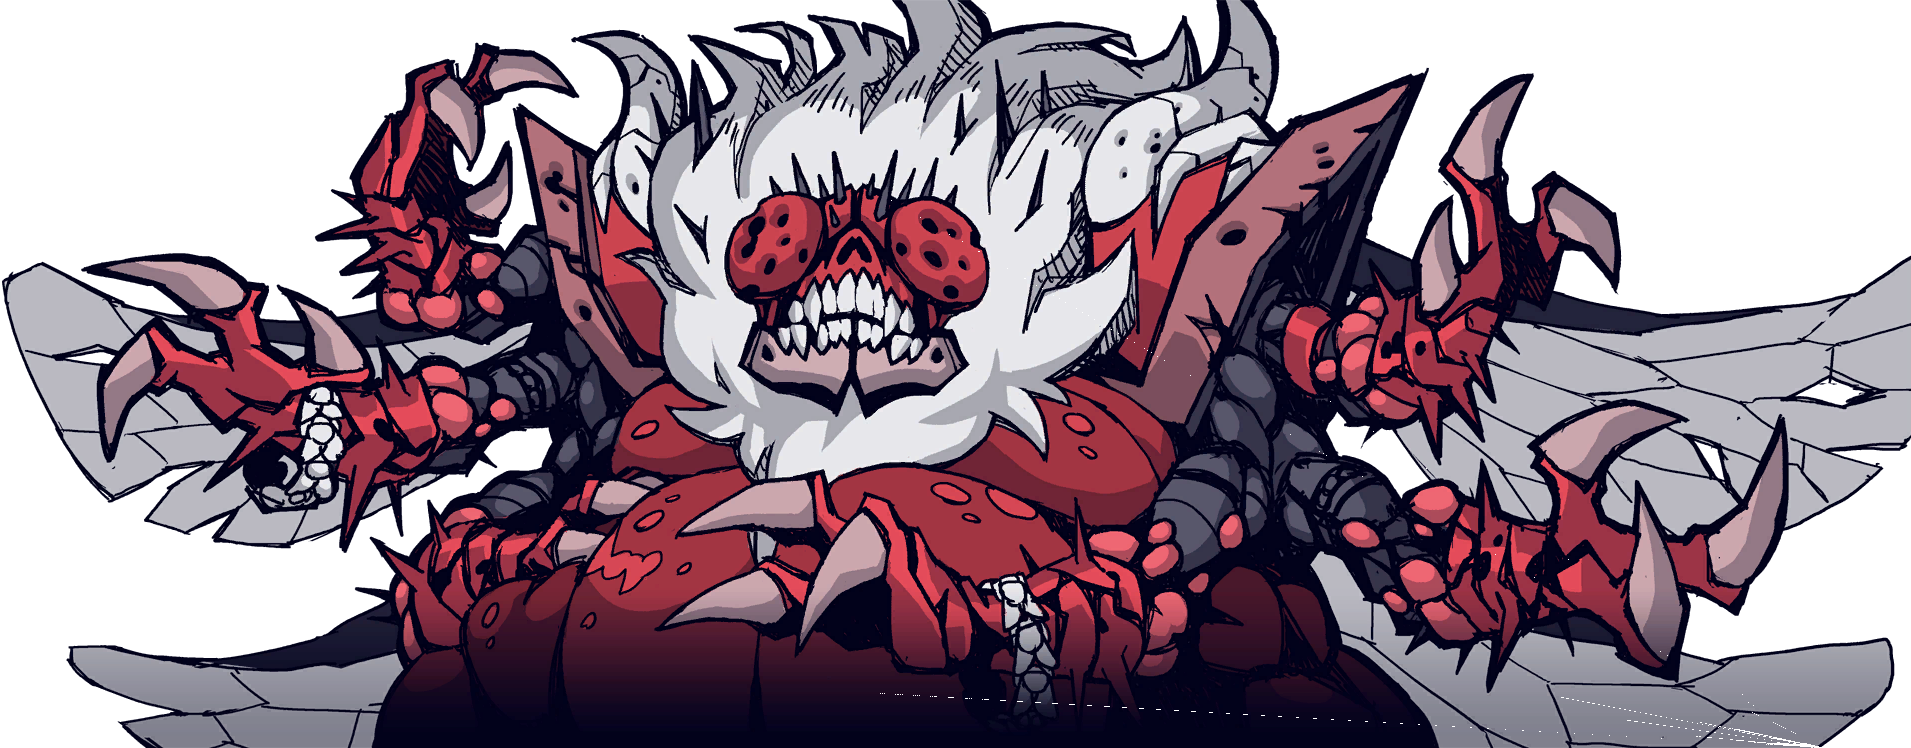
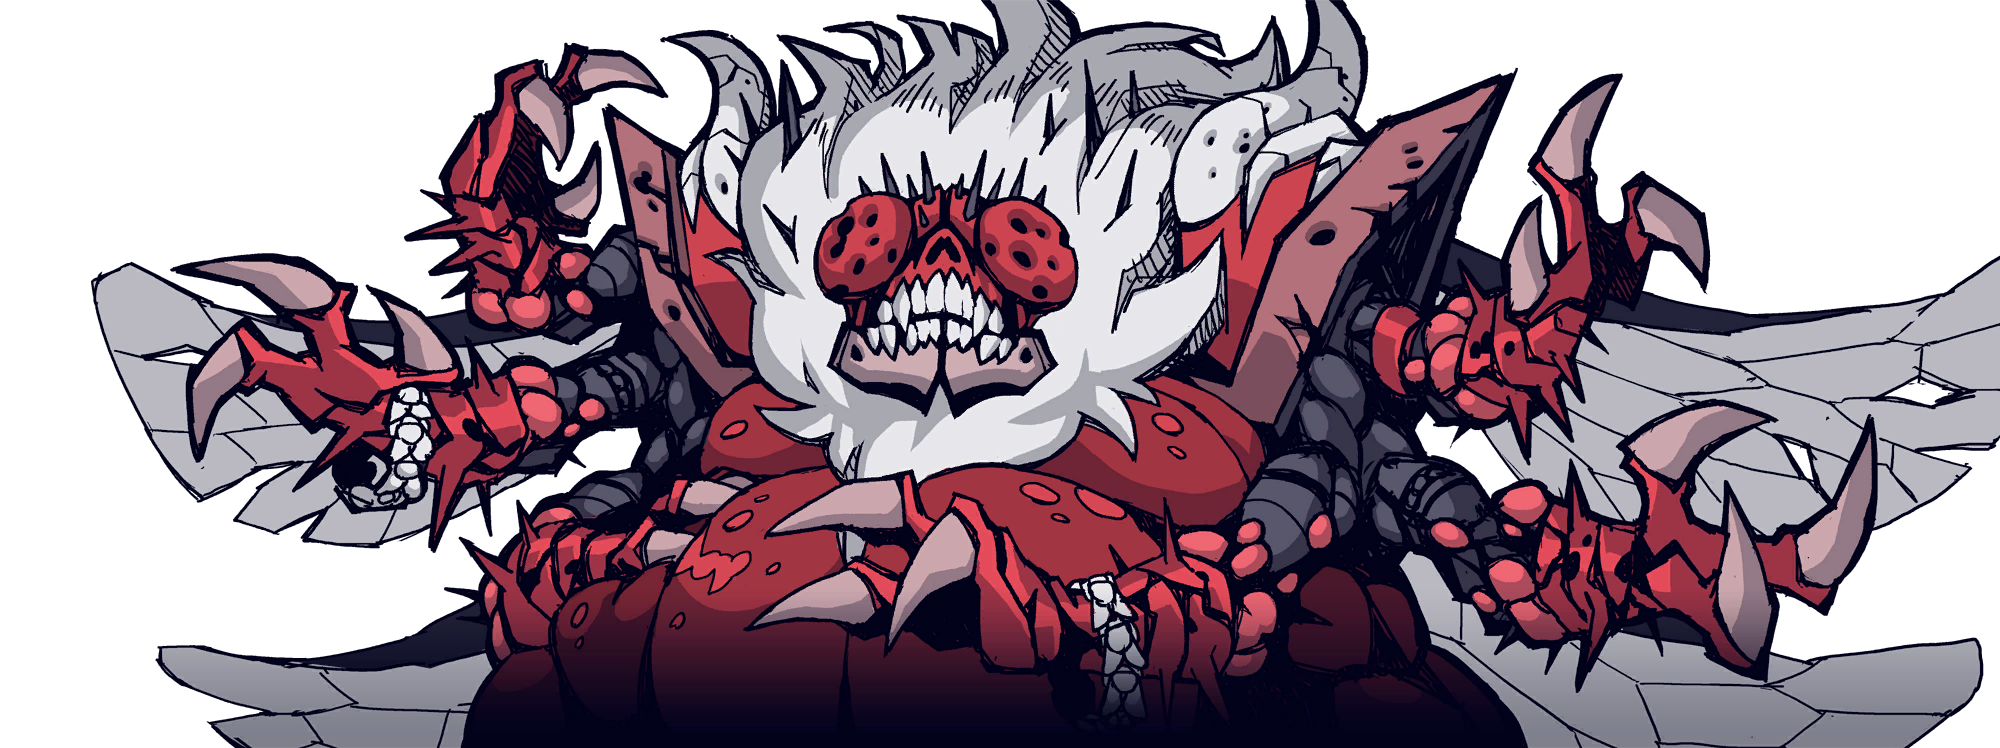
MainMenu : Beel_fly 수정

diff --git a/Helltaker/Helltaker_Contents/MainMenu.cpp b/Helltaker/Helltaker_Contents/MainMenu.cpp
@@ -95,8 +95,8 @@ void MainMenu::EnterStart()
 	C_SpawnCharacter("Beel", "Beel_Fly.png", MainMenu_Script[0]);
 
 	FVector WinScale = ContentsHelper::GetWindowScale();
-	FVector Scale = { WinScale.X * 0.995f, WinScale.Y * 0.693f };
-	FVector Pos = { WinScale.X * 0.0222f, WinScale.Y * (-0.0445f) };
+	FVector Scale = { WinScale.X * 1.04f, WinScale.Y * 0.693f };
+	FVector Pos = { 0.0f, WinScale.Y * (-0.0445f) };
 	C_CharacterSetTransform({ Pos, Scale });
 	C_BooperTextSet(MainMenu_Script[2]);
 }
